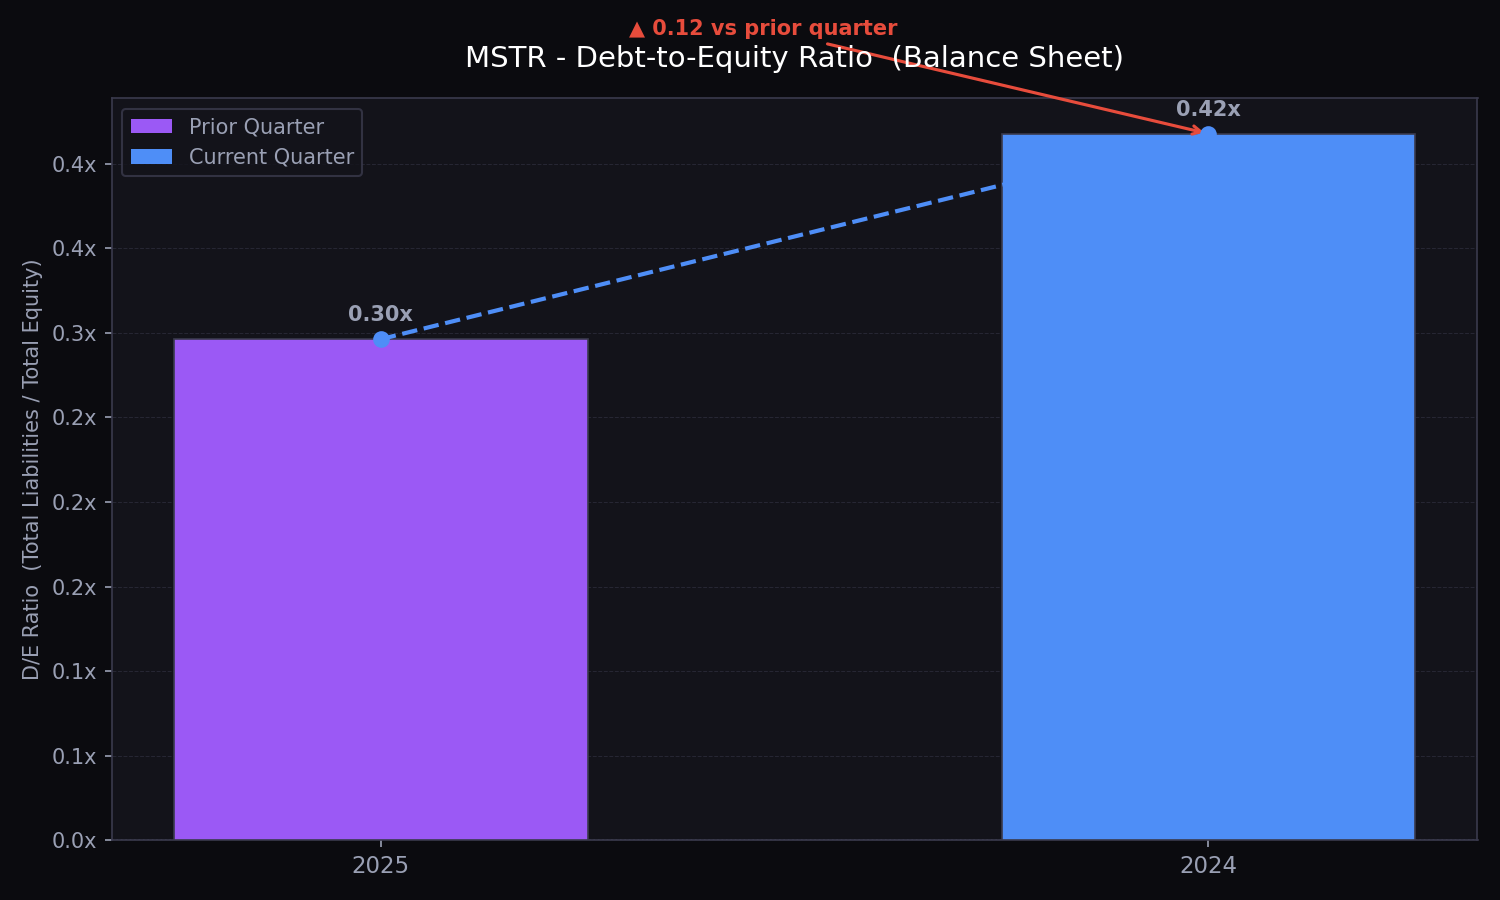
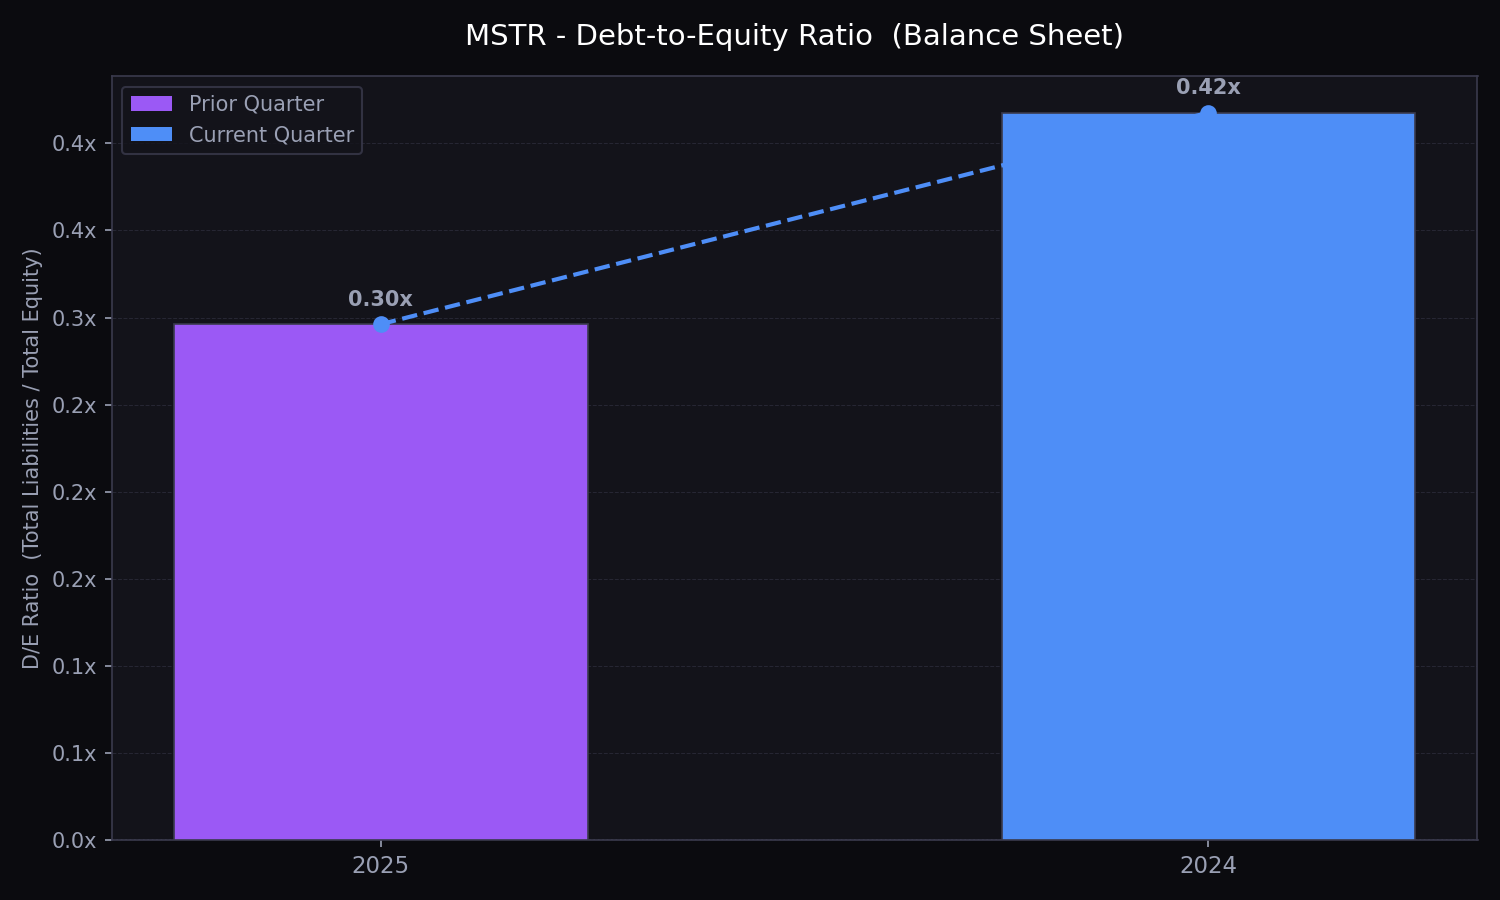
removed red clickbait line on graph

diff --git a/seminar_10q.py b/seminar_10q.py
@@ -1,4 +1,4 @@
-"""
+"""
 seminar_10q.py
 ==============
 A seminar walkthrough for parsing SEC 10-Q filings with Python.
@@ -443,6 +443,22 @@ try:
                 else:
                     de_ratios.append(None)
 
+            # Sort everything into chronological order (oldest → newest)
+            from datetime import datetime as _dt
+            def _to_sortable(label):
+                """Parse DD/MM/YY label back to a datetime for sorting."""
+                try:
+                    return _dt.strptime(label, "%d/%m/%y")
+                except Exception:
+                    return _dt.min
+
+            combined = sorted(
+                zip(date_labels, liab_vals, eq_vals, de_ratios),
+                key=lambda t: _to_sortable(t[0]),
+            )
+            date_labels, liab_vals, eq_vals, de_ratios = map(list, zip(*combined))
+            n = len(date_labels)
+
             print(f"  Liabilities row : {liab_key!r}")
             print(f"  Equity row      : {eq_key!r}")
             print(f"  Dates (DD/MM/YY): {date_labels}")
@@ -479,13 +495,7 @@ try:
                 delta = de_ratios[-1] - de_ratios[-2]
                 arr   = "\u25b2" if delta > 0 else "\u25bc"
                 acol  = "#e74c3c" if delta > 0 else "#2ecc71"
-                ax.annotate(
-                    f"{arr} {abs(delta):.2f} vs prior quarter",
-                    xy=(x[-1], y_vals[-1]),
-                    xytext=(max(0, x[-1] - 0.7), y_vals[-1] + max(y_vals) * 0.14),
-                    color=acol, fontsize=10, fontweight="bold",
-                    arrowprops=dict(arrowstyle="->", color=acol, lw=1.5),
-                )
+                
 
             ax.axhline(0, color=GRAY_MID, linewidth=0.8, linestyle=":")
             ax.set_xticks(x)
